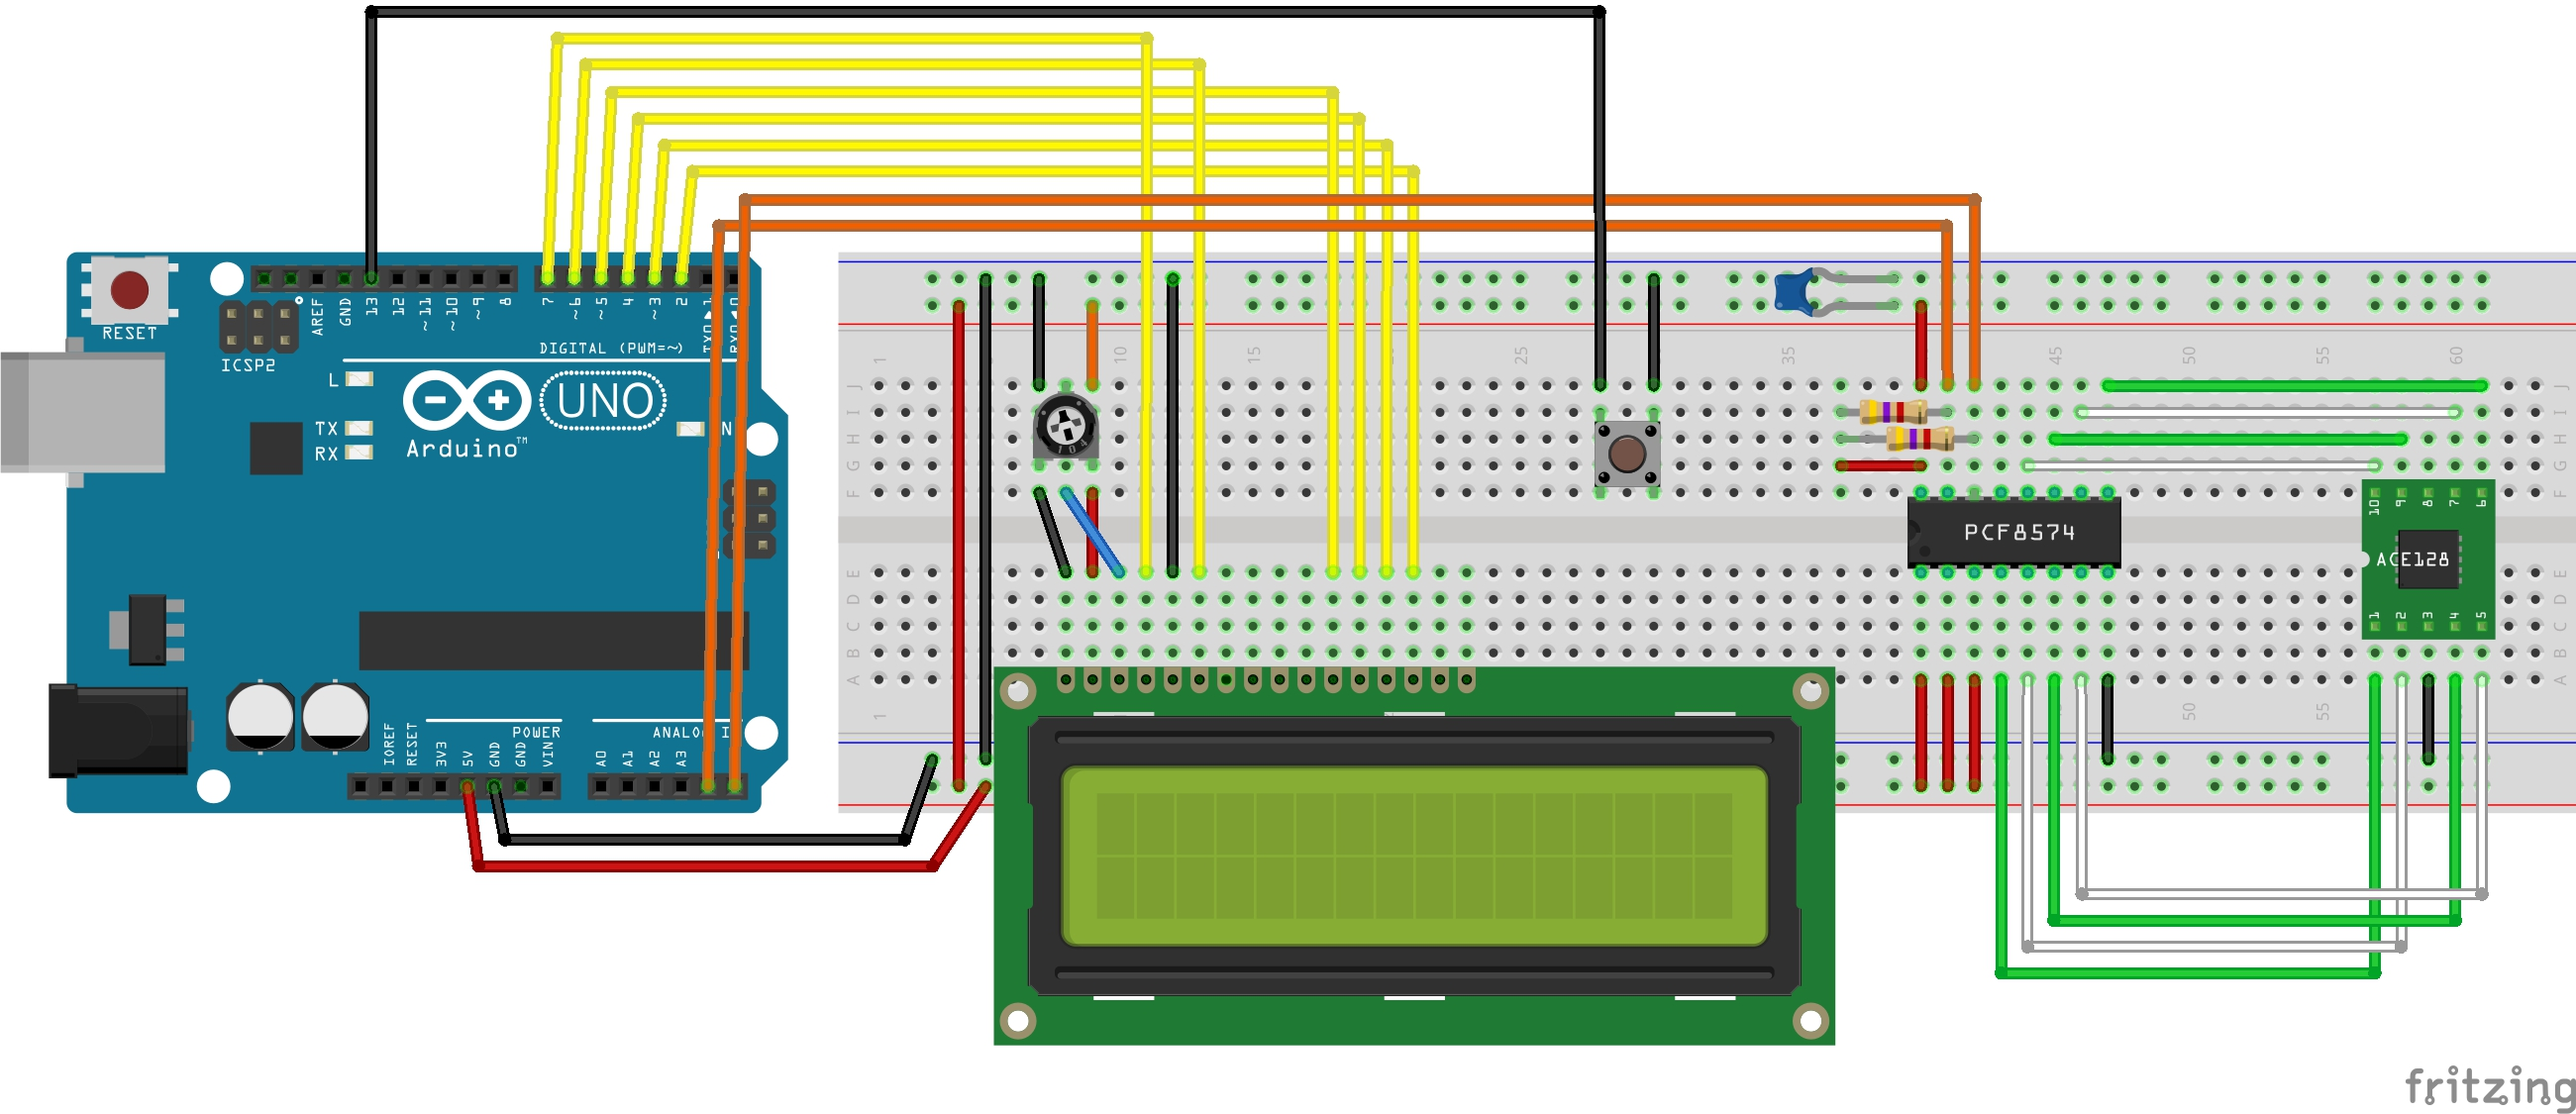
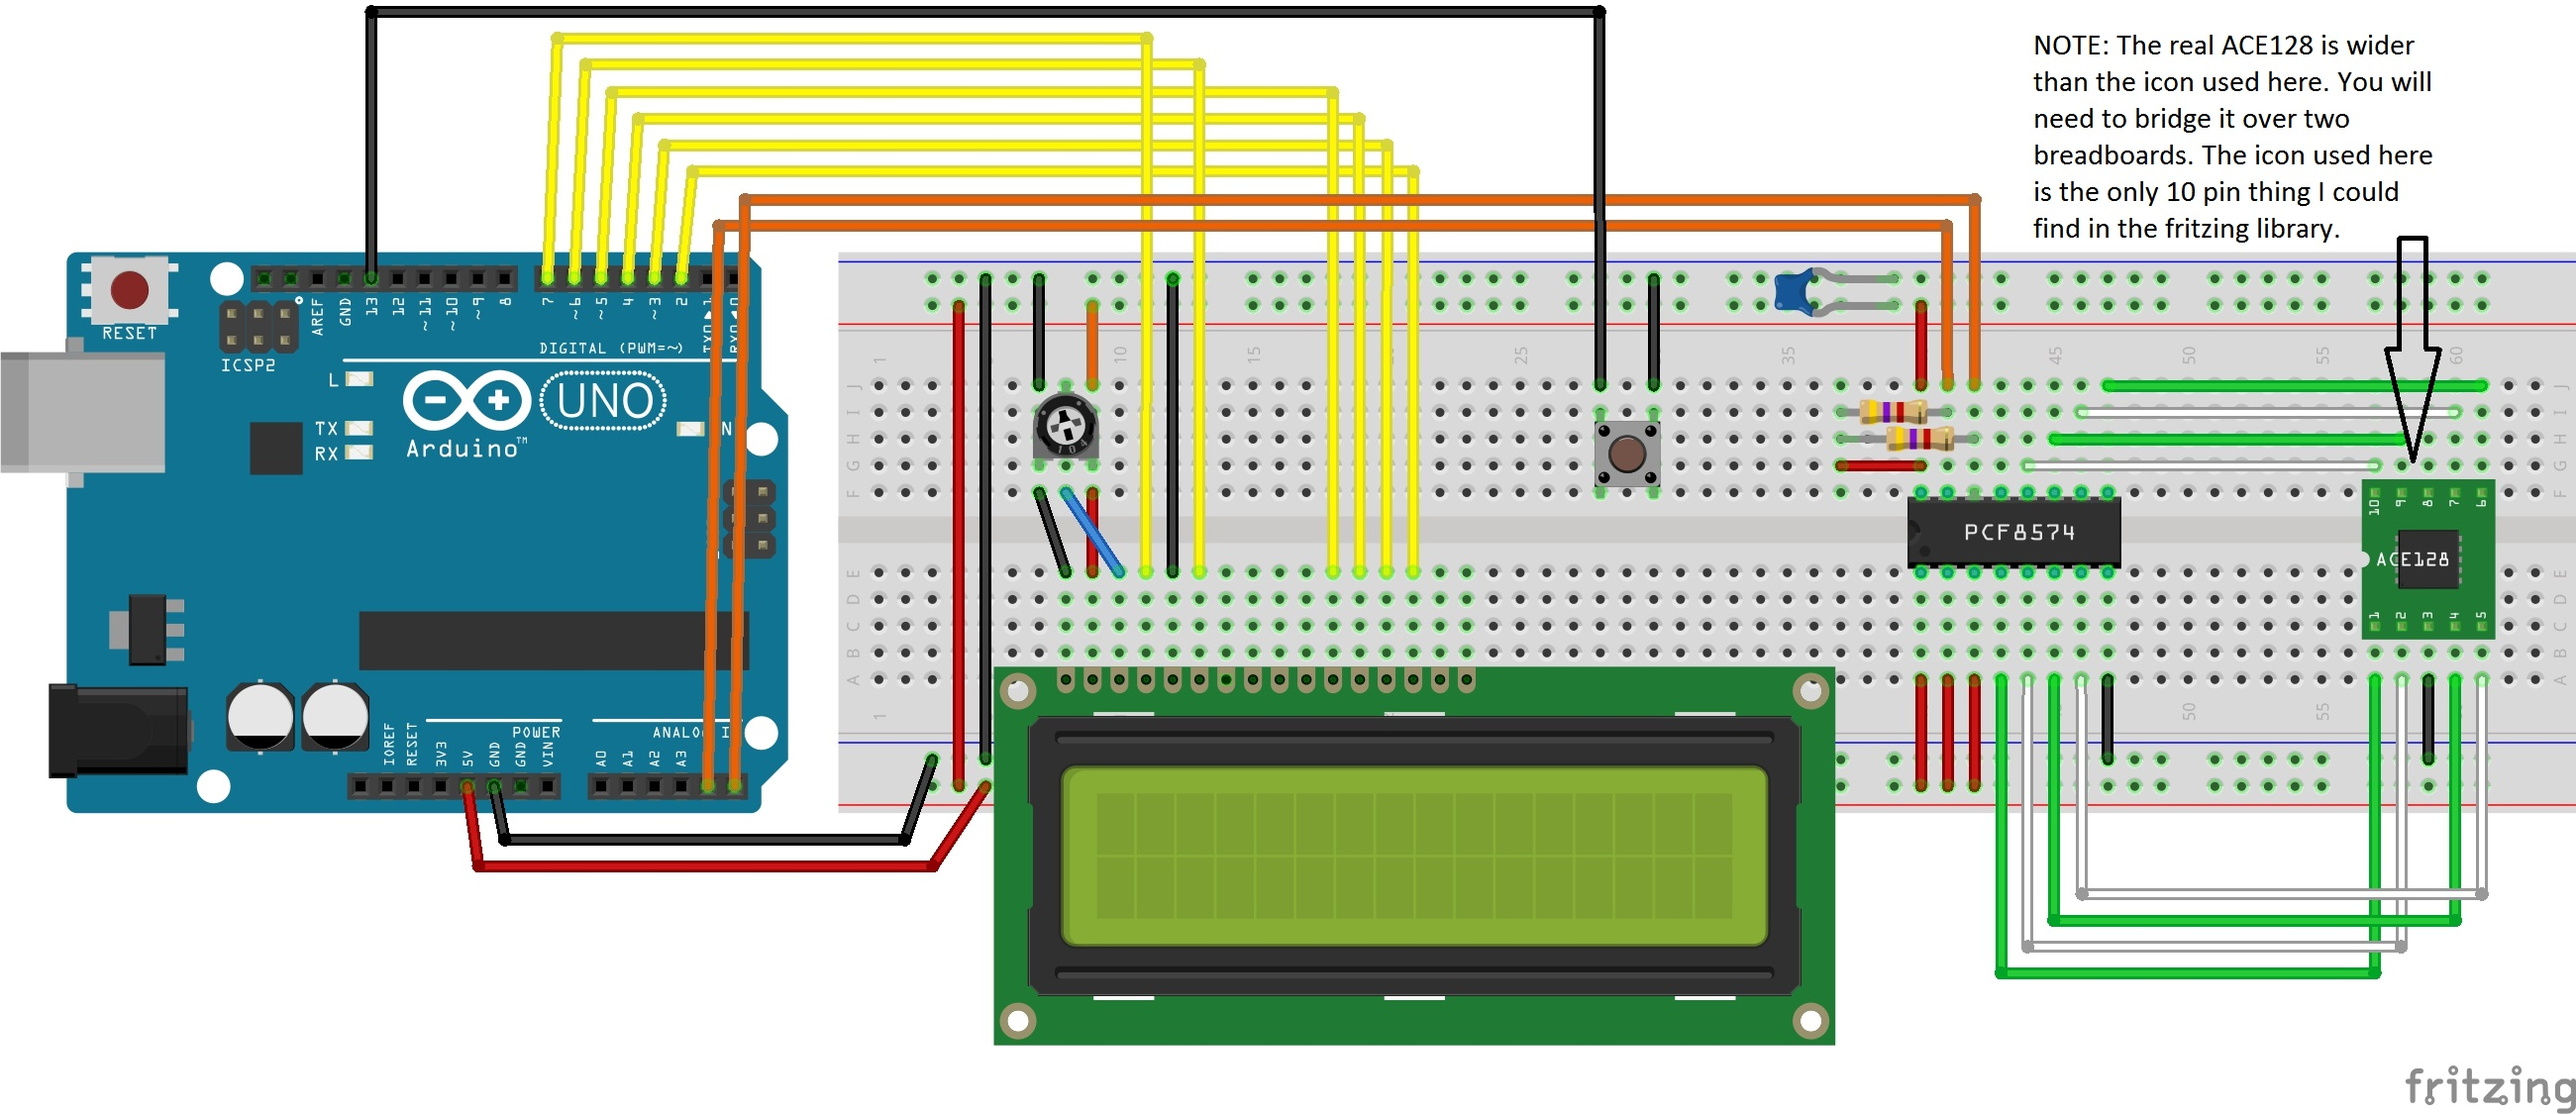
minor tweaks to docs
fixed list in README.md
added a picture
added not in fritzing image that the icon for the encoder is a lie

Changed region(s): [[0.7785, 0.0311, 0.9654, 0.2178]]

diff --git a/README.md b/README.md
@@ -1,3 +1,5 @@
+!(http://www.bourns.com/images/Products/encoders/dataprodline_sensors_controls_enc_contact.jpg)
+
 This library provides support for the Bourns EAW - Absolute Contacting Encoder (ACE) 
 
 Datasheet: https://www.bourns.com/pdfs/ace.pdf
@@ -13,9 +15,9 @@ The code currently supports the MCP23008, PCF8574 and PCF8574A I2C expanders
 
 Select these with the following addresses
 
-0x00 - 0x07 MCP23008 addresses 0x20-0x27. (This is backward compatible with an earlier library revision)
-0x20 - 0x27 PCF8574
-0x38 - 0x3F PCF8574A
+* 0x00 - 0x07 MCP23008 addresses 0x20-0x27. (This is backward compatible with an earlier library revision)
+* 0x20 - 0x27 PCF8574
+* 0x38 - 0x3F PCF8574A
 
 Note that the MCP23008 and PCF8574 chips use the same i2c address range. Many LCD backpacks also use one of these chips. Be careful when mixing all this on the same bus to avoid duplicating addresses. To confuse things further, raw I2C addresses have the lowest order bit as a read/write signal, so some documents, like some of the PCF8574 datasheets, will refer to 0x40 and 0x70 which is 0x20 and 0x38 shifted left one bit.
 
